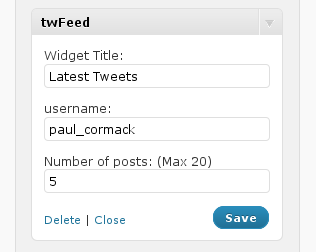
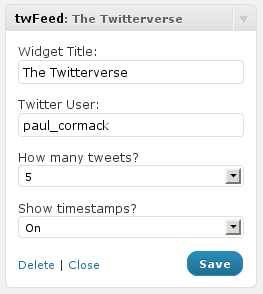
Version 1 update.
git-svn-id: https://plugins.svn.wordpress.org/twfeed/trunk@355831 b8457f37-d9ea-0310-8a92-e5e31aec5664

diff --git a/twFeed.php b/twFeed.php
@@ -3,93 +3,130 @@
 Plugin Name: twFeed
 Plugin URI: http://www.paulcormack.net/projects#twFeed
 Description: Integrates a Twitter RSS feed into your blog. Comes widget ready or by creating a new object and calling the function directly in php template files.
-Version: 0.4.1
+Version: 1.0
 License: GPLV2
 Author: Paul Cormack
 Author URI: http://www.paulcormack.net
 */
 
-add_action("widgets_init", array('twFeed', 'register'));
+class twFeed extends WP_Widget {
 
-class twFeed {
-
-	function get_twFeed($twFeed_usr,$twFeed_posts){
+	function twFeed() {
+		$widget_ops = array( 'classname' => 'widget_twFeed', 'description' => __( "A twitter RSS parser." ) );
+		$this->WP_Widget('twFeed', __('twFeed'), $widget_ops);
+	}
 		
-		if ($twFeed_show > 20) {
-			$twFeed_show = 20;
-		}
-
+	function get_twFeed($u_opts){
 		$twFeed_before = '<ul class="twFeed">';
 		$twFeed_after = '</ul>';
-		$twFeed_url = "http://twitter.com/statuses/user_timeline/".$twFeed_usr.".rss";
+		$url_regex = '`\b(https?|ftp)://[-A-Za-z0-9+&@#/%?=~_()|!:,.;]*[-A-Za-z0-9+&@#/%=~_()|]\b`';
+		$mention_regex = '`(^|[\n ])@+([A-Za-z0-9-_]+)`';
 		
-		if (!function_exists('MagpieRSS')){
+		if (empty($u_opts)) $u_opts = $u_defaults;
+    	if (!isset($u_opts['user'])) $u_opts['user'] = $u_defaults['user'];
+    	if (!isset($u_opts['title'])) $u_opts['title'] = $u_defaults['title'];
+    	if (!isset($u_opts['post_count'])) $u_opts['post_count'] = $u_defaults['post_count'];
+    	if (!is_numeric($u_opts['post_count']) && $u_opts['post_count'] < 1 && $u_opts['post_count'] >= 20 ) $u_opts['post_count'] = $u_defaults['post_count'];
+    	if (!isset($u_opts['show_date'])) $u_opts['show_date'] = $u_defaults['show_date'];
+
+		$twFeed_url = "http://twitter.com/statuses/user_timeline/" . 
+			$u_opts['user'] . ".rss";
+
+		if (!function_exists('MagpieRSS')) {
 			include_once (ABSPATH . WPINC . '/rss.php');
 		}
 
 		$twFeed_full_contents = @fetch_rss($twFeed_url);
-		
+
 		if ($twFeed_full_contents) {
-			$twFeed_contents = array_slice($twFeed_full_contents->items, 0, $twFeed_posts);
-			
+			$twFeed_contents = array_slice($twFeed_full_contents->items, 0, $u_opts['post_count']);
+
 			echo $twFeed_before;
 			foreach( $twFeed_contents as $tweet ) {
 				$twFeed_desc = $tweet['description'];
-				#$twFeed_time = $tweet['pubDate'];
-				$twFeed_tweet = str_replace($twFeed_usr.":",'', $twFeed_desc);
+				$twFeed_status = $tweet['link'];
+				$twFeed_fdate = explode(' ',$tweet['pubdate']);
+				$twFeed_hrmin = substr($twFeed_fdate[4], 0, -3);
+				$twFeed_date = $twFeed_fdate[1] . ' ' . $twFeed_fdate[2] . ' ' . $twFeed_hrmin;
+				$tweeter = explode (' ', $twFeed_desc, 2);
+				$twFeed_tweet = $tweeter[1];
 				$twFeed_tweet = htmlspecialchars(stripslashes($twFeed_tweet));
-				$url_regex = '`\b(https?|ftp)://[-A-Za-z0-9+@#/%?=~_|!:,.;]*[-A-Za-z0-9+@#/%=~_|]\b`';
-				$twFeed_tweet = preg_replace($url_regex, '<a href="\0" title="\0" alt="\0" target="_blank">\0</a>', $twFeed_tweet);
-				echo "<li>".$twFeed_tweet."</li>";
+				$twFeed_tweet = preg_replace($url_regex, 
+					'<a href="\0" title="\0" alt="\0" target="_blank">\0</a>', 
+					$twFeed_tweet );
+				$twFeed_tweet = preg_replace($mention_regex, 
+					'<a class="twFeed_mention" href="http://www.twitter.com/\\2" title="\\2" ' . 
+					'alt="\\2" target="_blank">@\\2</a>', $twFeed_tweet);
+
+				if ($u_opts['show_date']) {
+					$twFeed_tweet = $twFeed_tweet . ' <a class="twFeed_date" href="' . 
+						$twFeed_status . '" target="_blank">' . $twFeed_date . '</a>';
+           			echo '<li>' . $twFeed_tweet . '</li>';
+            	}
+            	else {
+           			echo '<li>'.$twFeed_tweet.'</li>';
+            	}
 			}
 			echo $twFeed_after;
 		}
 
 		else {
-			print "RSS problems, check twitter username...";
+			echo "RSS problems, check twitter username...\n";
+			echo $twFeed_url;
 		}
 	}
 
-	function control(){
-    	$options = get_option('widget_twFeed');
-		if ( $_POST['twFeed-submit'] ) {
-		
-			$options['title'] = strip_tags(stripslashes($_POST['twFeed-wtitle']));
-			$options['user'] = strip_tags(stripslashes($_POST['twFeed-tuser']));
-			$options['posts'] = strip_tags(stripslashes($_POST['twFeed-posts']));
-			$options['dates'] = strip_tags(stripslashes($_POST['twFeed-dates']));
-			$option = isset($options['option']) ? $options['option'] : false;
-			update_option('widget_twFeed', $options);
-			
-		}	
-		
-		if (!is_array( $options )) {
-	  		$options = array(
-	  			'title'=>'Tweets',
-	  			'user'=>'paul_cormack',
-	  			'posts'=>5,
-	  			'dates'=>false
-	  		);
-		}
-		
-		$title = htmlspecialchars($options['title'], ENT_QUOTES);
-		$settingspage = trailingslashit(get_option('siteurl')).'wp-admin/options-general.php?page='.basename(__FILE__);
-		echo '<p><label for="twFeed-wtitle">Widget Title:<input class="widefat" name="twFeed-wtitle" type="text" value="'.$options['title'].'" /></label></p>'.'<p><label for="twFeed-tuser">Twitter user:<input class="widefat" name="twFeed-tuser" type="text" value="'.$options['user'].'" /></label></p>'.'<p><label for="twFeed-posts">Number of tweets: (Max 20)<input class="widefat" name="twFeed-posts" type="text" value="'.$options['posts'].'" /></label></p>'.'<input type="hidden" id="twFeed-submit" name="twFeed-submit" value="1" />';
-		
-	}
-
-	function widget($args){
-    	extract($args);
-		$options = get_option('widget_twFeed');
-		echo '<h2 class="widgettitle">'.$options['title'].'</h2>';
+	function widget($args, $instance) {
+		extract($args);
+		echo $before_widget;
+		if(!empty($instance['title'])) echo $before_title . $instance['title'] . $after_title; 
 		$widget_feed = new twFeed();
-		$widget_feed->get_twFeed($options['user'],$options['posts']);
-  	}
-  	  	
-	function register(){
-		register_sidebar_widget('twFeed', array('twFeed', 'widget'));
-		register_widget_control('twFeed', array('twFeed', 'control'));
+		$widget_feed->get_twFeed(array(
+			'user'=>$instance['user'],
+			'title'=>$instance['title'], 
+			'post_count'=>$instance['post_count'],
+			'show_date'=>$instance['show_date'] ));
+		echo $after_widget;
+	}
+	
+	function update($new_instance, $old_instance) {
+		$instance = $old_instance;
+		$instance['title'] = strip_tags( $new_instance['title'] );
+		$instance['user'] = strip_tags( $new_instance['user'] );
+		$instance['post_count'] = strip_tags( $new_instance['post_count'] );
+		$instance['show_date'] = strip_tags( $new_instance['show_date'] );
+		return $new_instance;
+	}
+
+	function form($instance) {		
+		echo '<div id="twFeed-admin-panel">';
+		echo '<p><label for="' . $this->get_field_id("title") .'">Widget Title:</label>';
+		echo '<input type="text" class="widefat" name="' . $this->get_field_name("title") . '" '; 
+		echo 'id="' . $this->get_field_id("title") . '" value="' . $instance["title"] . '" /></p>';
+		echo '<p><label for="' . $this->get_field_id("user") .'">Twitter User:</label>';
+		echo '<input type="text" class="widefat" name="' . $this->get_field_name("user") . '" '; 
+		echo 'id="' . $this->get_field_id("user") . '" value="' . $instance["user"] . '" /></p>';
+		echo '<p><label for="' . $this->get_field_id("post_count") . '">How many tweets?</label><br />';
+		echo '<select id="' . $this->get_field_id('post_count') . '" name="' . 
+			$this->get_field_name('post_count') . '" class="widefat">';
+		for ($i=1; $i<=20; $i++) {
+			echo '<option value="' . $i . '"'; 
+				if ( $i == $instance['post_count'] ) echo ' selected="selected"';
+			echo '">' . $i . '</option>';
+		}
+		echo '</select></p>';
+		echo '<p><label for="' . $this->get_field_id('show_date') . 
+			'">Show timestamps?</label><br />';
+		echo '<select id="' . $this->get_field_id('show_date') . '" name="' . 
+			$this->get_field_name('show_date') . '" class="widefat">';
+		echo '<option value="0" '; 
+			if ( $instance['show_date'] === 0 ) echo 'selected="selected"';
+		echo '">Off</option><option value="1" ';
+			if ( $instance['show_date'] == 1 ) echo 'selected="selected"';
+		echo '">On</option></select></p>';
+		echo '</div>';
 	}
 }
+add_action('widgets_init', create_function('', 'return register_widget("twFeed");'));
 
 ?>
